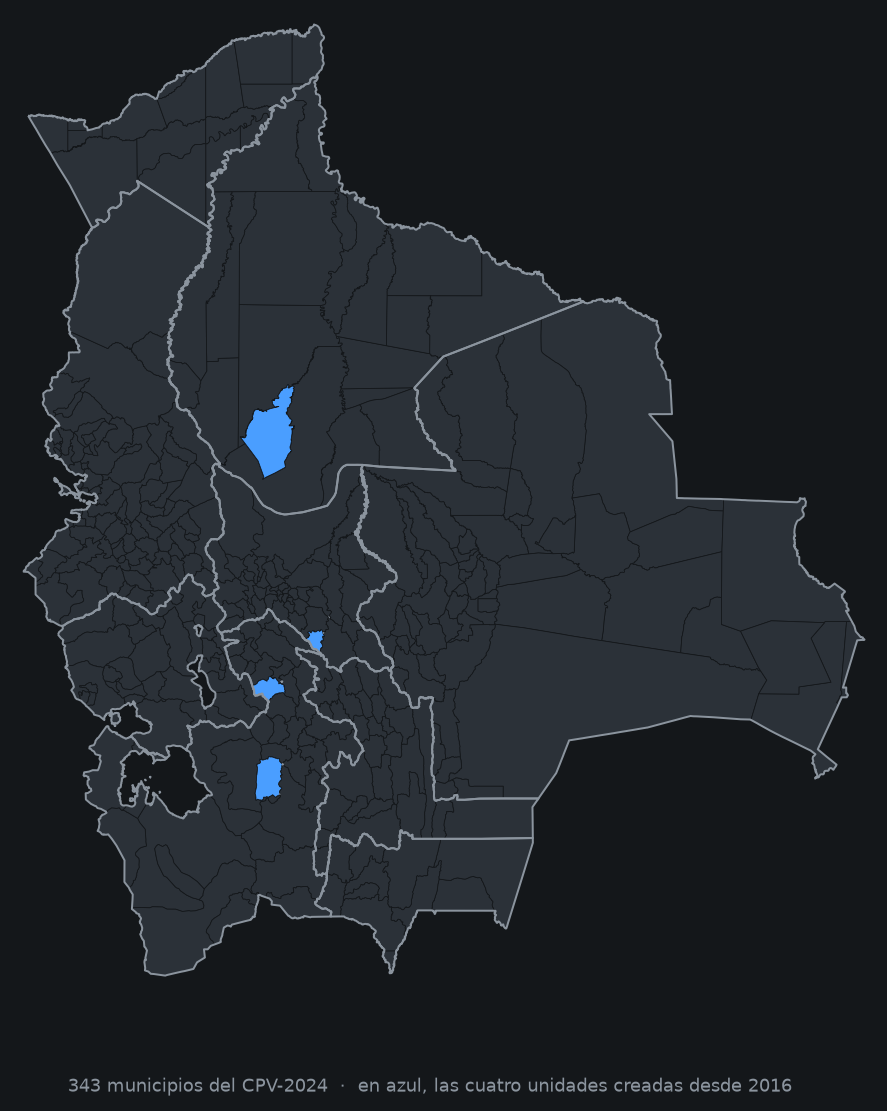
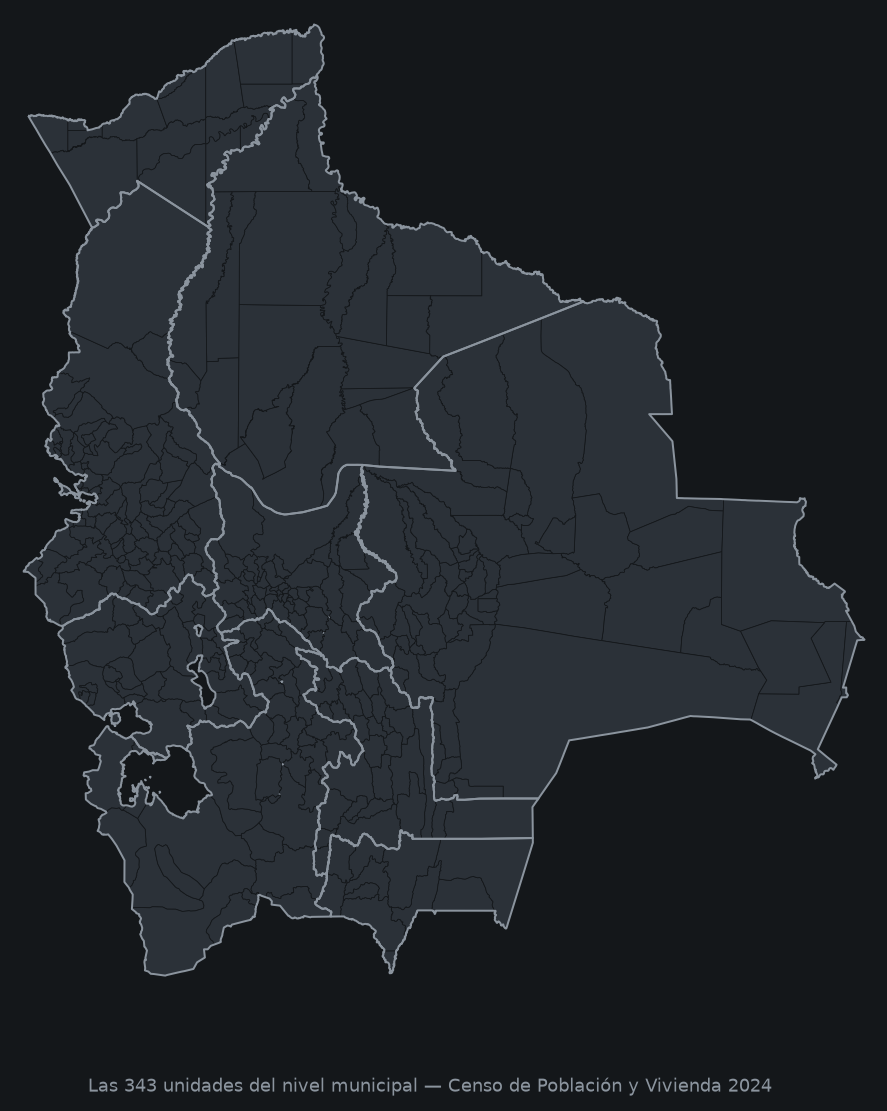
Trazo uniforme en el mapa y traslado a lab-tecnosocial
El mapa web y las imágenes resaltaban en azul las AIOC y las cuatro unidades
creadas desde 2016. Sugería una jerarquía que no existe: todas tienen el mismo
rango en el nivel municipal, así que ahora se dibujan igual. La condición de
AIOC sigue apareciendo en la ficha del municipio, que es donde informa sin
alterar la lectura del mapa.

El repositorio pasa de alex-roc a la organización lab-tecnosocial. Se actualizan
las URL del sitio, el canonical, el JSON-LD, el sitemap, el robots y los ejemplos
de código, que además dejan raw.githubusercontent por la base de Pages: sirve con
el Content-Type correcto y por CDN.

diff --git a/index.html b/index.html
@@ -7,7 +7,7 @@
 
 <title>343 municipios de Bolivia (CPV 2024) — GeoJSON, Shapefile y TopoJSON</title>
 <meta name="description" content="Geografía municipal de Bolivia lista para usar: los 343 municipios del Censo 2024 con los códigos del INE, en GeoJSON, TopoJSON, Shapefile, GeoPackage y CSV. Descarga libre.">
-<link rel="canonical" href="https://alex-roc.github.io/municipios-bolivia-2024/">
+<link rel="canonical" href="https://lab-tecnosocial.github.io/municipios-bolivia-2024/">
 <meta name="author" content="Lab TecnoSocial">
 <meta name="keywords" content="municipios de Bolivia, shapefile Bolivia, geojson Bolivia, límites municipales, CPV 2024, censo Bolivia, códigos INE, datos abiertos Bolivia, SIG">
 <meta name="robots" content="index, follow, max-image-preview:large">
@@ -17,15 +17,15 @@
 <meta property="og:site_name" content="Municipios de Bolivia 2024">
 <meta property="og:title" content="343 municipios de Bolivia (CPV 2024)">
 <meta property="og:description" content="Geografía municipal lista para usar, con los códigos del INE que usan los microdatos censales. GeoJSON, TopoJSON, Shapefile, GeoPackage y CSV.">
-<meta property="og:url" content="https://alex-roc.github.io/municipios-bolivia-2024/">
-<meta property="og:image" content="https://alex-roc.github.io/municipios-bolivia-2024/img/og.png">
+<meta property="og:url" content="https://lab-tecnosocial.github.io/municipios-bolivia-2024/">
+<meta property="og:image" content="https://lab-tecnosocial.github.io/municipios-bolivia-2024/img/og.png">
 <meta property="og:image:width" content="1200">
 <meta property="og:image:height" content="630">
 <meta property="og:image:alt" content="Mapa de Bolivia dividido en sus 343 municipios">
 <meta name="twitter:card" content="summary_large_image">
 <meta name="twitter:title" content="343 municipios de Bolivia (CPV 2024)">
 <meta name="twitter:description" content="Geografía municipal lista para usar, con los códigos del INE. GeoJSON, TopoJSON, Shapefile, GeoPackage y CSV.">
-<meta name="twitter:image" content="https://alex-roc.github.io/municipios-bolivia-2024/img/og.png">
+<meta name="twitter:image" content="https://lab-tecnosocial.github.io/municipios-bolivia-2024/img/og.png">
 
 <link rel="icon" href="img/favicon.svg" type="image/svg+xml">
 <link rel="preload" href="municipios_bolivia_2024.geojson" as="fetch" crossorigin>
@@ -39,8 +39,8 @@
   "name": "Municipios de Bolivia 2024 (CPV-2024)",
   "alternateName": "Límites municipales de Bolivia, Censo de Población y Vivienda 2024",
   "description": "Geografía de las 343 unidades territoriales del nivel municipal de Bolivia que reconoce el Censo de Población y Vivienda 2024 (335 municipios y 8 autonomías indígena originario campesinas), con los códigos del INE que usan los microdatos censales. Disponible en GeoJSON, TopoJSON, Shapefile, GeoPackage y CSV.",
-  "url": "https://alex-roc.github.io/municipios-bolivia-2024/",
-  "sameAs": "https://github.com/alex-roc/municipios-bolivia-2024",
+  "url": "https://lab-tecnosocial.github.io/municipios-bolivia-2024/",
+  "sameAs": "https://github.com/lab-tecnosocial/municipios-bolivia-2024",
   "keywords": ["Bolivia", "municipios", "límites administrativos", "censo 2024", "INE Bolivia", "SIG", "datos abiertos"],
   "license": "https://creativecommons.org/licenses/by/4.0/",
   "isAccessibleForFree": true,
@@ -60,11 +60,11 @@
     "url": "https://labtecnosocial.org"
   },
   "distribution": [
-    { "@type": "DataDownload", "encodingFormat": "application/geo+json", "name": "GeoJSON (uso general)", "contentUrl": "https://alex-roc.github.io/municipios-bolivia-2024/municipios_bolivia_2024.geojson" },
-    { "@type": "DataDownload", "encodingFormat": "application/json", "name": "TopoJSON (alto detalle)", "contentUrl": "https://alex-roc.github.io/municipios-bolivia-2024/municipios_bolivia_2024_detalle.topojson" },
-    { "@type": "DataDownload", "encodingFormat": "application/zip", "name": "Shapefile", "contentUrl": "https://alex-roc.github.io/municipios-bolivia-2024/municipios_bolivia_2024_shp.zip" },
-    { "@type": "DataDownload", "encodingFormat": "application/geopackage+sqlite3", "name": "GeoPackage", "contentUrl": "https://alex-roc.github.io/municipios-bolivia-2024/municipios_bolivia_2024.gpkg" },
-    { "@type": "DataDownload", "encodingFormat": "text/csv", "name": "CSV (sin geometría)", "contentUrl": "https://alex-roc.github.io/municipios-bolivia-2024/municipios_bolivia_2024.csv" }
+    { "@type": "DataDownload", "encodingFormat": "application/geo+json", "name": "GeoJSON (uso general)", "contentUrl": "https://lab-tecnosocial.github.io/municipios-bolivia-2024/municipios_bolivia_2024.geojson" },
+    { "@type": "DataDownload", "encodingFormat": "application/json", "name": "TopoJSON (alto detalle)", "contentUrl": "https://lab-tecnosocial.github.io/municipios-bolivia-2024/municipios_bolivia_2024_detalle.topojson" },
+    { "@type": "DataDownload", "encodingFormat": "application/zip", "name": "Shapefile", "contentUrl": "https://lab-tecnosocial.github.io/municipios-bolivia-2024/municipios_bolivia_2024_shp.zip" },
+    { "@type": "DataDownload", "encodingFormat": "application/geopackage+sqlite3", "name": "GeoPackage", "contentUrl": "https://lab-tecnosocial.github.io/municipios-bolivia-2024/municipios_bolivia_2024.gpkg" },
+    { "@type": "DataDownload", "encodingFormat": "text/csv", "name": "CSV (sin geometría)", "contentUrl": "https://lab-tecnosocial.github.io/municipios-bolivia-2024/municipios_bolivia_2024.csv" }
   ]
 }
 </script>
@@ -82,7 +82,7 @@
       <a href="#descargas">Descargas</a>
       <a href="#uso" class="opcional">Cómo usarla</a>
       <a href="#origen" class="opcional">Fuentes</a>
-      <a href="https://github.com/alex-roc/municipios-bolivia-2024" target="_blank" rel="noopener">GitHub</a>
+      <a href="https://github.com/lab-tecnosocial/municipios-bolivia-2024" target="_blank" rel="noopener">GitHub</a>
     </nav>
   </div>
 </header>
@@ -142,7 +142,6 @@
         </div>
 
         <div class="claves">
-          <p class="clave"><i class="muestra-aioc"></i> borde azul: autonomía indígena originario campesina</p>
           <p class="clave"><i class="muestra-dep"></i> color de relleno por departamento</p>
           <p id="cuenta-mapa">Cargando…</p>
           <p>WGS84 · EPSG:4326</p>
@@ -332,7 +331,7 @@
     <h2>Cómo usarla</h2>
     <p>
       No hace falta descargar nada: los archivos se leen directo desde la URL. La base es
-      <code>https://alex-roc.github.io/municipios-bolivia-2024/</code>
+      <code>https://lab-tecnosocial.github.io/municipios-bolivia-2024/</code>
     </p>
 
     <div class="pestanas" role="tablist">
@@ -344,7 +343,7 @@
 
 <div class="panel" id="p-r" role="tabpanel"><pre><code>library(sf)
 
-base &lt;- "https://alex-roc.github.io/municipios-bolivia-2024/"
+base &lt;- "https://lab-tecnosocial.github.io/municipios-bolivia-2024/"
 
 mun &lt;- st_read(paste0(base, "municipios_bolivia_2024.geojson"))
 # Simple feature collection with 343 features and 8 fields
@@ -358,7 +357,7 @@ mun &lt;- merge(mun, mis_datos, by = c("idep", "iprov", "imun"))</code></pre></d
 
 <div class="panel" id="p-py" role="tabpanel" hidden><pre><code>import geopandas as gpd, pandas as pd
 
-BASE = "https://alex-roc.github.io/municipios-bolivia-2024/"
+BASE = "https://lab-tecnosocial.github.io/municipios-bolivia-2024/"
 
 mun = gpd.read_file(BASE + "municipios_bolivia_2024.geojson")
 mun.crs          # EPSG:4326
@@ -378,7 +377,7 @@ tabla = pd.read_csv(BASE + "municipios_bolivia_2024.csv",
 #   Pega la URL en URI y pulsa Añadir
 
 # O con el prefijo de GDAL en cualquier diálogo que acepte un origen vectorial:
-/vsicurl/https://alex-roc.github.io/municipios-bolivia-2024/municipios_bolivia_2024.geojson
+/vsicurl/https://lab-tecnosocial.github.io/municipios-bolivia-2024/municipios_bolivia_2024.geojson
 
 # Más simple todavía: descarga el .geojson o el .gpkg y arrástralo al lienzo.
 # En el TopoJSON, que no declara CRS, asígnalo con
@@ -389,7 +388,7 @@ tabla = pd.read_csv(BASE + "municipios_bolivia_2024.csv",
 # así que los acentos de los nombres salen bien.
 
 # ArcGIS Online: Add → Add layer from URL, tipo GeoJSON
-https://alex-roc.github.io/municipios-bolivia-2024/municipios_bolivia_2024.geojson
+https://lab-tecnosocial.github.io/municipios-bolivia-2024/municipios_bolivia_2024.geojson
 
 # El TopoJSON no lo soporta ArcGIS. Usa el shapefile de alto detalle,
 # o conviértelo tú:
@@ -487,8 +486,8 @@ ogr2ogr -f GeoJSON detalle.geojson municipios_bolivia_2024_detalle.topojson</cod
     <div>
       <h3>Proyecto</h3>
       <ul>
-        <li><a href="https://github.com/alex-roc/municipios-bolivia-2024" target="_blank" rel="noopener">Repositorio en GitHub</a></li>
-        <li><a href="https://github.com/alex-roc/municipios-bolivia-2024/issues" target="_blank" rel="noopener">Reportar un problema</a></li>
+        <li><a href="https://github.com/lab-tecnosocial/municipios-bolivia-2024" target="_blank" rel="noopener">Repositorio en GitHub</a></li>
+        <li><a href="https://github.com/lab-tecnosocial/municipios-bolivia-2024/issues" target="_blank" rel="noopener">Reportar un problema</a></li>
         <li><a href="https://lab-tecnosocial.github.io/censosbo/" target="_blank" rel="noopener">Paquete censosbo (R)</a></li>
       </ul>
     </div>
@@ -497,7 +496,7 @@ ogr2ogr -f GeoJSON detalle.geojson municipios_bolivia_2024_detalle.topojson</cod
       <p style="margin:0 0 8px">
         <strong>Cómo citar.</strong> Lab TecnoSocial (2026).
         <em>Municipios de Bolivia 2024: geografía municipal del CPV-2024</em>.
-        <a href="https://alex-roc.github.io/municipios-bolivia-2024/">https://alex-roc.github.io/municipios-bolivia-2024/</a>
+        <a href="https://lab-tecnosocial.github.io/municipios-bolivia-2024/">https://lab-tecnosocial.github.io/municipios-bolivia-2024/</a>
       </p>
       <p style="margin:0">
         Publicado bajo

diff --git a/assets/mapa.js b/assets/mapa.js
@@ -73,9 +73,12 @@
       return { color: c.seleccion, weight: 2.2, fillColor: c.dep[i], fillOpacity: 0.95,
                renderer: lienzo };
     }
+    // Todas las unidades se dibujan igual: las AIOC tienen el mismo rango que un
+    // municipio, así que distinguirlas en el mapa sugeriría una jerarquía que no
+    // existe. La condición de AIOC se indica en la ficha, no en el trazo.
     return {
-      color: CODIGOS_AIOC[cod] ? c.aioc : c.borde,
-      weight: CODIGOS_AIOC[cod] ? 1.1 : 0.5,
+      color: c.borde,
+      weight: 0.5,
       fillColor: c.dep[i],
       fillOpacity: 0.9,
       renderer: lienzo,

diff --git a/assets/estilo.css b/assets/estilo.css
@@ -197,7 +197,6 @@ code:not(pre code) {
   width: 12px; height: 12px; border-radius: 3px; display: block;
   flex: none; margin-top: 3px;
 }
-.muestra-aioc { background: transparent; border: 1.5px solid var(--azul); }
 .muestra-dep {
   background: linear-gradient(135deg, #cfe3f5 0 50%, #f6e5c8 50% 100%);
 }

diff --git a/build/generar-imagenes.py b/build/generar-imagenes.py
@@ -21,16 +21,18 @@ from PIL import Image
 RAIZ = Path(__file__).resolve().parent.parent
 IMG = RAIZ / "img"
 
-# Las cuatro unidades territoriales creadas entre 2016 y 2023.
+# Las cuatro unidades territoriales creadas entre 2016 y 2023. Se comprueban al
+# generar (deben existir en la capa), pero no se resaltan: todas las unidades del
+# nivel municipal tienen el mismo rango y se dibujan igual.
 NUEVAS = {"031304", "050405", "051204", "080901"}
 
-PIE = "343 municipios del CPV-2024  ·  en azul, las cuatro unidades creadas desde 2016"
+PIE = "Las 343 unidades del nivel municipal — Censo de Población y Vivienda 2024"
 
 TEMAS = {
     "light": dict(fondo="#f7f6f2", relleno="#d6d3cd", borde_mun="#ffffff",
-                  borde_dep="#5a5a5a", nuevo="#1a73c8", texto="#4a4a46"),
+                  borde_dep="#5a5a5a", texto="#4a4a46"),
     "dark":  dict(fondo="#14171a", relleno="#2b3138", borde_mun="#14171a",
-                  borde_dep="#8b949e", nuevo="#4a9eff", texto="#8b949e"),
+                  borde_dep="#8b949e", texto="#8b949e"),
 }
 
 
@@ -48,8 +50,6 @@ def dibujar(mun, dep, tema, ruta, con_pie=True, ancho=9.0):
     ax.set_facecolor(t["fondo"])
 
     mun.plot(ax=ax, color=t["relleno"], edgecolor=t["borde_mun"], linewidth=0.45)
-    nuevas = mun[mun.codigo_ine.isin(NUEVAS)]
-    nuevas.plot(ax=ax, color=t["nuevo"], edgecolor=t["borde_mun"], linewidth=0.45)
     dep.boundary.plot(ax=ax, color=t["borde_dep"], linewidth=1.15)
 
     ax.set_axis_off()
@@ -71,8 +71,6 @@ def social(mun, dep):
     ax = fig.add_axes([0.60, 0.02, 0.38, 0.96])
     ax.set_facecolor(t["fondo"])
     mun.plot(ax=ax, color=t["relleno"], edgecolor="#ffffff", linewidth=0.35)
-    mun[mun.codigo_ine.isin(NUEVAS)].plot(ax=ax, color=t["nuevo"],
-                                          edgecolor="#ffffff", linewidth=0.35)
     dep.boundary.plot(ax=ax, color=t["borde_dep"], linewidth=0.9)
     ax.set_axis_off()
 

diff --git a/README.md b/README.md
@@ -2,14 +2,14 @@
 
 <picture>
   <source media="(prefers-color-scheme: dark)" srcset="img/mapa-dark.png">
-  <img src="img/mapa-light.png" alt="Mapa de Bolivia dividido en sus 343 municipios, con los bordes departamentales marcados y las cuatro unidades territoriales creadas desde 2016 resaltadas en azul" width="620">
+  <img src="img/mapa-light.png" alt="Mapa de Bolivia dividido en sus 343 unidades del nivel municipal, con los bordes departamentales marcados" width="620">
 </picture>
 
 Geografía municipal lista para usar, con los **343 municipios** que reconoce el
 Censo de Población y Vivienda 2024 y los códigos del INE que usan los microdatos
 censales.
 
-**→ [Sitio con mapa interactivo y descargas](https://alex-roc.github.io/municipios-bolivia-2024/)**
+**→ [Sitio con mapa interactivo y descargas](https://lab-tecnosocial.github.io/municipios-bolivia-2024/)**
 
 > **Uso referencial.** Estos polígonos sirven para mapear y agregar datos, no para
 > dirimir cuestiones de jurisdicción. Bolivia tiene procesos de delimitación
@@ -108,11 +108,11 @@ vuelve `1` y el join falla en silencio. Léelos como texto.
 
 ## Cómo usarla
 
-No hace falta descargar nada: los cuatro archivos se leen directo desde la URL.
+No hace falta descargar nada: todos los archivos se leen directo desde la URL.
 La base es:
 
 ```
-https://raw.githubusercontent.com/alex-roc/municipios-bolivia-2024/main/
+https://lab-tecnosocial.github.io/municipios-bolivia-2024/
 ```
 
 ### R
@@ -120,7 +120,7 @@ https://raw.githubusercontent.com/alex-roc/municipios-bolivia-2024/main/
 ```r
 library(sf)
 
-base <- "https://raw.githubusercontent.com/alex-roc/municipios-bolivia-2024/main/"
+base <- "https://lab-tecnosocial.github.io/municipios-bolivia-2024/"
 
 mun <- st_read(paste0(base, "municipios_bolivia_2024.geojson"))
 # Simple feature collection with 343 features and 8 fields
@@ -142,7 +142,7 @@ Si trabajas con los censos bolivianos, el paquete
 ```python
 import geopandas as gpd, pandas as pd
 
-BASE = "https://raw.githubusercontent.com/alex-roc/municipios-bolivia-2024/main/"
+BASE = "https://lab-tecnosocial.github.io/municipios-bolivia-2024/"
 
 mun = gpd.read_file(BASE + "municipios_bolivia_2024.geojson")
 mun.crs          # EPSG:4326
@@ -171,7 +171,7 @@ También puedes escribir la ruta con el prefijo de GDAL en cualquier diálogo qu
 acepte un origen vectorial:
 
 ```
-/vsicurl/https://raw.githubusercontent.com/alex-roc/municipios-bolivia-2024/main/municipios_bolivia_2024.geojson
+/vsicurl/https://lab-tecnosocial.github.io/municipios-bolivia-2024/municipios_bolivia_2024.geojson
 ```
 
 O, más simple todavía: descarga el `.geojson` y arrástralo al lienzo. QGIS lee
@@ -299,8 +299,14 @@ nuevas.
 Úsalo para lo que quieras, incluso comercialmente; solo cita la fuente.
 
 > Lab TecnoSocial (2026). *Municipios de Bolivia 2024: geografía municipal del
-> CPV-2024*. <https://alex-roc.github.io/municipios-bolivia-2024/>
+> CPV-2024*. <https://lab-tecnosocial.github.io/municipios-bolivia-2024/>
 
 La licencia cubre esta capa y su documentación. Los datos de origen tienen sus
 propias condiciones: revisa las fuentes citadas arriba si vas a redistribuirlos
 por separado.
+
+---
+
+> Este repositorio vivía antes en `alex-roc/municipios-bolivia-2024`. GitHub
+> redirige las URL antiguas, así que los enlaces y `git clone` que ya tengas
+> siguen funcionando, pero conviene apuntar a la dirección nueva.
